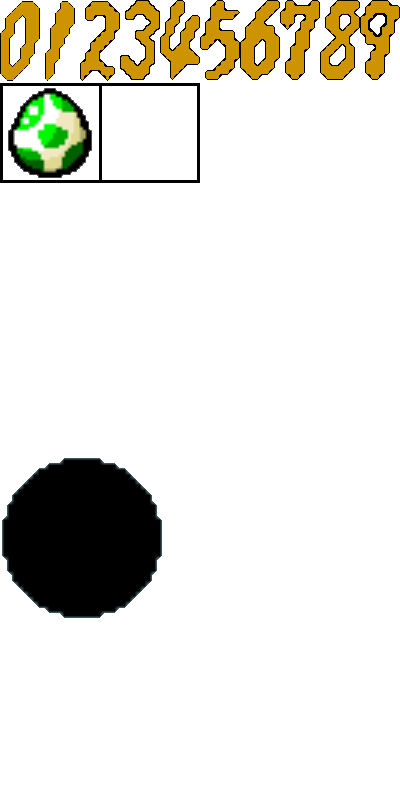
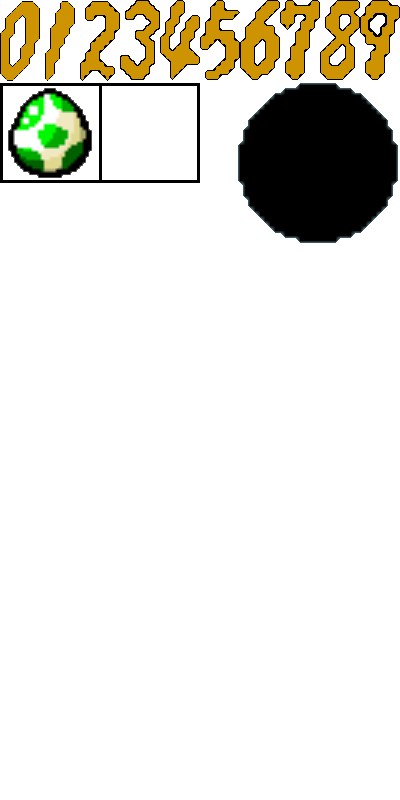
이미지 추가 및 리소스 수정

Changed region(s): [[0.0, 0.5625, 0.42, 0.7812], [0.57, 0.0938, 1.0, 0.3125]]

diff --git a/yoshi_character.py b/yoshi_character.py
@@ -16,8 +16,8 @@ MAXJUMPTIME = 10
 jump_delay = 0
 
 #이벤트 정의
-WD,WU,AD,AU,SD,SU,DD,DU,SHIFTD,SHIFTU,GOTOFLY,CTRLD,CTRLU,ED,EU = range(15)
-key_down = [False for i in range(15)]
+WD,WU,AD,AU,SD,SU,DD,DU,SHIFTD,SHIFTU,GOTOFLY,CTRLD,CTRLU,ED,EU,GETHIT = range(16)
+key_down = [False for i in range(16)]
 
 key_event_table = {
     (SDL_KEYDOWN, SDLK_w): WD,
@@ -697,6 +697,80 @@ class EGG_ATTACK_END:
                     self.camera[Y] + 112 // 2
                 )
 
+class HITTING:
+    def enter(self, event=None):
+        self.delay = 0
+        self.frame = 0
+        self.dir[X] = 0
+        self.hitting_time = 0
+        pass
+
+    def exit(self, event=None):
+        if (key_down[DD] and key_down[AD]):
+            self.cur_state = IDLE_01
+            self.cur_state.enter(self)
+        elif key_down[DD]:
+            self.cur_state = WALK
+            self.cur_state.enter(self, DD)
+        elif key_down[AD]:
+            self.cur_state = WALK
+            self.cur_state.enter(self, AD)
+        else:
+            self.cur_state = IDLE_01
+            self.cur_state.enter(self)
+        self.image[yoshi_state['NOMARIO']].opacify(1)
+        self.image[yoshi_state['MARIO']].opacify(1)
+    def do(self):
+        self.hitting_time+=1
+
+        if self.hitting_time>=50:
+            self.cur_state.exit(self)
+        elif self.hitting_time>=25:
+            if self.face == RIGHT:
+                self.x -= 3
+            else:
+                self.x += 3
+            self.y = self.y-3+self.gravity
+        else:
+            if self.face == RIGHT:
+                self.x -= 3
+            else:
+                self.x += 3
+            self.y =self.y+35+self.gravity
+        if self.hitting_time%10 == 0:
+            self.image[yoshi_state['NOMARIO']].opacify(1)
+            self.image[yoshi_state['MARIO']].opacify(1)
+        elif self.hitting_time%10 == 5:
+            self.image[yoshi_state['NOMARIO']].opacify(0.5)
+            self.image[yoshi_state['MARIO']].opacify(0.5)
+
+
+
+        pass
+
+    def draw(self):
+        self.state ='MARIO'
+        if self.state == "MARIO":
+
+            if self.face == RIGHT:
+                self.image[yoshi_state[self.state]].clip_draw(
+                    662,
+                    160*14,
+                    83,
+                    99,
+                    self.camera[X] + 83 // 2,
+                    self.camera[Y] + 99       // 2
+                )
+            else:
+                self.image[yoshi_state[self.state]].clip_draw(
+                    777,
+                    160*14,
+                    83,
+                    99,
+                    self.camera[X] + 83 // 2,
+                    self.camera[Y] + 99 // 2
+                )
+        self.state = 'NOMARIO'
 
 
 
@@ -704,19 +778,20 @@ class EGG_ATTACK_END:
 
 
 next_state = {
-    IDLE_01: {WD: JUMP, AD: WALK, AU: WALK, DD: WALK, DU: WALK,CTRLD:TONGUE_ATTACK,ED:EGG_ATTACK_START},
-    IDLE_02: {WD: JUMP, AD: WALK, AU: WALK, DD: WALK, DU: WALK, CTRLD:TONGUE_ATTACK, ED:EGG_ATTACK_START},
-    WALK: {WD: JUMP, AD: IDLE_01, AU: IDLE_01, DD: IDLE_01, DU: IDLE_01, SHIFTD: RUN, SHIFTU: WALK,CTRLD:TONGUE_ATTACK,ED:EGG_ATTACK_START},
-    RUN: {WD: JUMP, AD: IDLE_01, AU: IDLE_01, DD: IDLE_01, DU: IDLE_01, SHIFTD: WALK, SHIFTU: WALK,CTRLD:TONGUE_ATTACK,ED:EGG_ATTACK_START},
-    JUMP: {WD: JUMP, WU:FALL,AD: JUMP, AU: JUMP, DD: JUMP, DU: JUMP},
-    FALL: {AD: FALL, AU: FALL, DD: FALL, DU: FALL},
-    FLY: {WU: FALL, AD:FLY, AU: FLY, DD: FLY, DU:FLY},
-    TONGUE_ATTACK:{},
-    EGG_ATTACK_START:{ED: EGG_ATTACK_END},
-    EGG_ATTACK_END:{}
+    IDLE_01: {WD: JUMP, AD: WALK, AU: WALK, DD: WALK, DU: WALK,CTRLD:TONGUE_ATTACK,ED:EGG_ATTACK_START,GETHIT:HITTING},
+    IDLE_02: {WD: JUMP, AD: WALK, AU: WALK, DD: WALK, DU: WALK, CTRLD:TONGUE_ATTACK, ED:EGG_ATTACK_START,GETHIT:HITTING},
+    WALK: {WD: JUMP, AD: IDLE_01, AU: IDLE_01, DD: IDLE_01, DU: IDLE_01, SHIFTD: RUN, SHIFTU: WALK,CTRLD:TONGUE_ATTACK,ED:EGG_ATTACK_START,GETHIT:HITTING},
+    RUN: {WD: JUMP, AD: IDLE_01, AU: IDLE_01, DD: IDLE_01, DU: IDLE_01, SHIFTD: WALK, SHIFTU: WALK,CTRLD:TONGUE_ATTACK,ED:EGG_ATTACK_START,GETHIT:HITTING},
+    JUMP: {WD: JUMP, WU:FALL,AD: JUMP, AU: JUMP, DD: JUMP, DU: JUMP,GETHIT:HITTING},
+    FALL: {AD: FALL, AU: FALL, DD: FALL, DU: FALL,GETHIT:HITTING},
+    FLY: {WU: FALL, AD:FLY, AU: FLY, DD: FLY, DU:FLY,GETHIT:HITTING},
+    TONGUE_ATTACK:{GETHIT:HITTING},
+    EGG_ATTACK_START:{ED: EGG_ATTACK_END,GETHIT:HITTING},
+    EGG_ATTACK_END:{GETHIT:HITTING},
+    HITTING:{}
 }
-yoshi_delay = {IDLE_01:8,IDLE_02:10,WALK:8,RUN: 8,JUMP:0,FALL:0, FLY: 6,TONGUE_ATTACK: 10,EGG_ATTACK_START:10,EGG_ATTACK_END: 3}
-yoshi_motion_num = {IDLE_01:8,IDLE_02:5, WALK:8, RUN:2, JUMP:1, FALL:1, FLY: 8, TONGUE_ATTACK:1,EGG_ATTACK_START:1,EGG_ATTACK_END:4}
+yoshi_delay = {IDLE_01:8,IDLE_02:10,WALK:8,RUN: 8,JUMP:0,FALL:0, FLY: 6,TONGUE_ATTACK: 10,EGG_ATTACK_START:10,EGG_ATTACK_END: 3,HITTING:10}
+yoshi_motion_num = {IDLE_01:8,IDLE_02:5, WALK:8, RUN:2, JUMP:1, FALL:1, FLY: 8, TONGUE_ATTACK:1,EGG_ATTACK_START:1,EGG_ATTACK_END:4,HITTING:1}
 
 class Tongue:
     tongueImg = None
@@ -860,7 +935,7 @@ class Yoshi:
 
     def update(self):
         self.sprite_update()
-        
+
         self.cur_state.do(self)
         self.move()
         self.calc_gravity()
@@ -896,7 +971,7 @@ class Yoshi:
             self.y = 0
         self.gravity -= GRAVITY
         if self.gravity < -GRAVITY * 3:
-            if self.cur_state != FALL and self.cur_state!= FLY:
+            if self.cur_state != FALL and self.cur_state!= FLY and self.cur_state!=RUN and self.cur_state != HITTING :
                 self.cur_state.exit(self)
                 self.flytime = 0
                 self.cur_state = FALL
@@ -1085,11 +1160,16 @@ class Yoshi:
                 self.cur_state = WALK
                 game_framework.push_state(finish_state)
         elif group == 'yoshi:enemies':
+            if self.cur_state==HITTING: return
             if other.grabbed: return
             if self.state == "MARIO":
                 self.state = "NOMARIO"
-                play_state.babyMario = item.BabyMario(self.x-130,self.y+100)
+                play_state.babyMario = item.BabyMario(self.x-170,self.y+150)
                 play_state.spawnMario = True
+                play_state.game_over_timer_ui.start_setting()
+            self.cur_state.exit(self)
+            self.cur_state = HITTING
+            self.cur_state.enter(self, GETHIT)
         elif group == 'yoshi:babyMario':
             play_state.yoshi.state='MARIO'
             game_world.remove_object(other)

diff --git a/ui.py b/ui.py
@@ -1,5 +1,7 @@
 from pico2d import *
 
+import game_framework
+import game_over_state
 
 class UI:
     image = None
@@ -32,3 +34,58 @@ class EggUi(UI):
             get_canvas_width()-50,
             get_canvas_height()-50
         )
+
+class GameOverTimerUI(UI):
+    def __init__(self):
+        super(GameOverTimerUI, self).__init__()
+        self.time = 10
+        self.counter = 0
+    def start_setting(self):
+        self.time = 10
+        self.counter = 0
+        print('초기화 됐는데?')
+
+    def draw(self):
+        #검은원
+        UI.image.clip_draw(
+            236,
+            UI.image.h-81-164,
+            164,
+            164,
+            get_canvas_width() - 164//2,
+            get_canvas_height() - 100-164//2
+        )
+
+        #십의자리
+        if self.time >= 10:
+            UI.image.clip_draw(
+                40 * int(self.time//10),
+                UI.image.h - 80,
+                40,
+                81,
+                get_canvas_width() - 164//2-30,
+                get_canvas_height() - 100-164//2
+            )
+
+        #일의자리
+
+        UI.image.clip_draw(
+            40 * int(self.time % 10),
+            UI.image.h - 80,
+            40,
+            81,
+            get_canvas_width() - 164//2+30,
+            get_canvas_height() - 100 - 164 // 2
+        )
+    def update(self):
+        self.counter+=16
+        if self.counter>=1000:
+            self.counter-=1000
+            self.time-=1
+            print(self.time)
+            if self.time<0:
+                self.time = 0
+                print("game_over_state 로 가기")
+                game_framework.change_state(game_over_state)
+
+        pass

diff --git a/title_state.py b/title_state.py
@@ -4,15 +4,38 @@ import game_framework
 #import play_state
 import stage_select_state
 image = None
-
+image_time = 0
+image_logo = None
+loading = None
 def enter():
     # fill here
-    global image
-    image = load_image('title.png')
+    hide_cursor()
+    hide_lattice()
+    global image_logo,loading
+    image_logo= load_image('tukorea_logo.png')
+    loading = False
+    clear_canvas()
+    image_logo.clip_draw(0, 0, image_logo.w, image_logo.h, get_canvas_width()//2, get_canvas_height()//2,get_canvas_width(),get_canvas_height())
+    update_canvas()
+
+    global image,image_time
+    image = list()
+    for i in range(1,148):
+        idx = None
+        if i//10 >= 10:
+            idx = str(i)
+        elif i//10>=1:
+            idx = '0'+str(i)
+        else:
+            idx = '00'+str(i)
+        strr = 'title_image\\frame_apngframe'+idx+'.png'
+        image.append(load_image(strr))
+    image_time = 0
+    #image = load_image('title.png')
 
 def exit():
     global image
-    del image
+    image = None
 
 def handle_events():
     # fill here
@@ -28,10 +51,20 @@ def handle_events():
 
 def draw():
     clear_canvas()
-    image.clip_draw(0,0,800,600,get_canvas_width()//2,get_canvas_height()//2,get_canvas_width(),get_canvas_height())
+
+
+    image[int(image_time)].draw(
+        get_canvas_width()//2,
+        get_canvas_height()//2
+    )
     update_canvas()
 
 def update():
+    global image_time,loading
+
+    image_time+=0.2
+    if(image_time>=147):
+        image_time = 0
     pass
 
 def pause():

diff --git a/item.py b/item.py
@@ -231,4 +231,14 @@ class BabyMario(Item):
         return self.x, self.y, self.x + self.size[X], self.y + self.size[Y]
 
     def handle_collision(self, other, group):
-        pass
+        if group =='babyMario:groundRect':
+            pass
+        elif group =='babyMario:stairRect':
+            pass
+        elif group ==  'babyMario:ceilingBlock':
+            pass
+        elif group =='babyMario:footBlock':
+            pass
+        elif group =='babyMario:largeBlock':
+            pass
+
